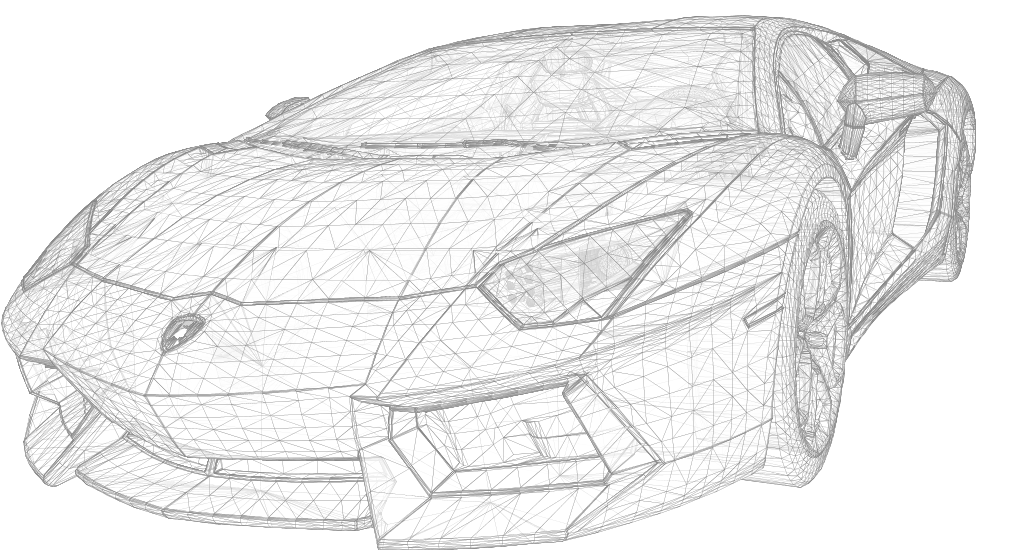
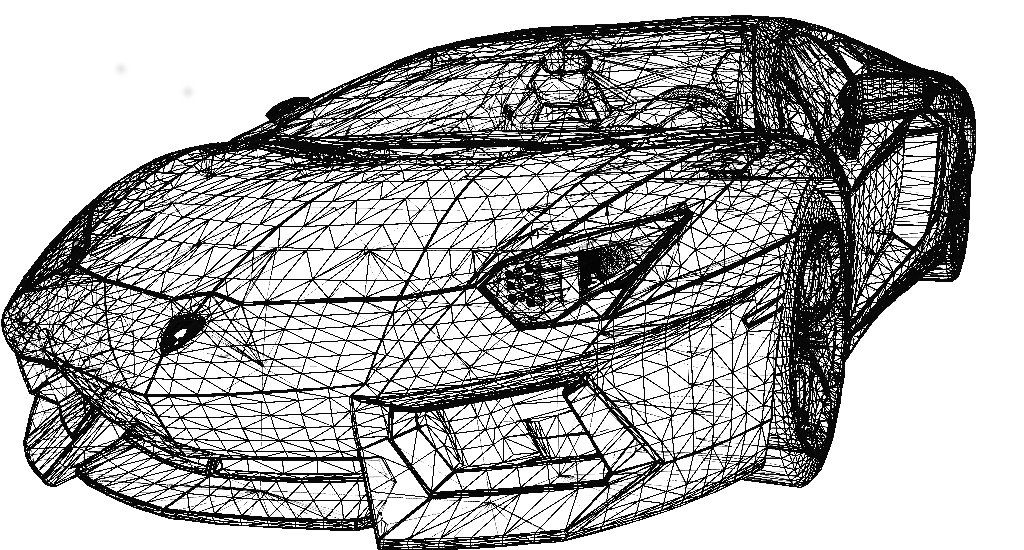
fix(backgound): change background

diff --git a/src/index.css b/src/index.css
@@ -15,11 +15,13 @@ a {
 }
 
 .main-content {
+  background: url('../src/assets/images/car-wireframe.png');
   margin-left: 500px;
   height: 100vh;
   background-repeat: no-repeat;
-  background-position: right 35% bottom 45%;
+  background-position: right 0% bottom 45%;
   background-attachment: fixed;
+  background-size: auto 60%;
 }
 
 ::placeholder {

diff --git a/src/screens/vehicles/form.js b/src/screens/vehicles/form.js
@@ -42,7 +42,7 @@ const Form = props => {
   useEffect(() => {
     async function init() {
       actions.getBrands();
-      if(vehicles.length == 0) {
+      if(vehicles.length === 0) {
         await actions.getVehicles();
       }
 

diff --git a/src/utils/formatNumber.js b/src/utils/formatNumber.js
@@ -1,5 +1,3 @@
-import numeral from 'numeral';
-
 export const formatCurrency = (value) => {
   const f = value
   .toFixed(2)
